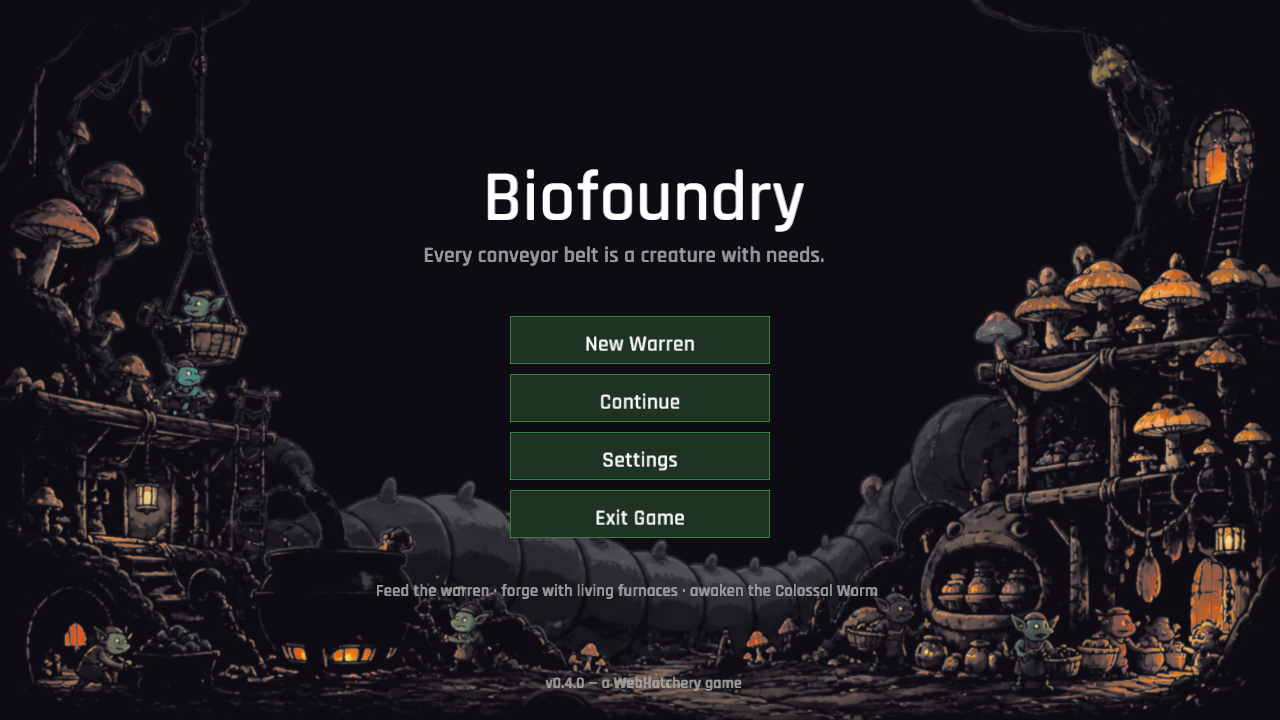
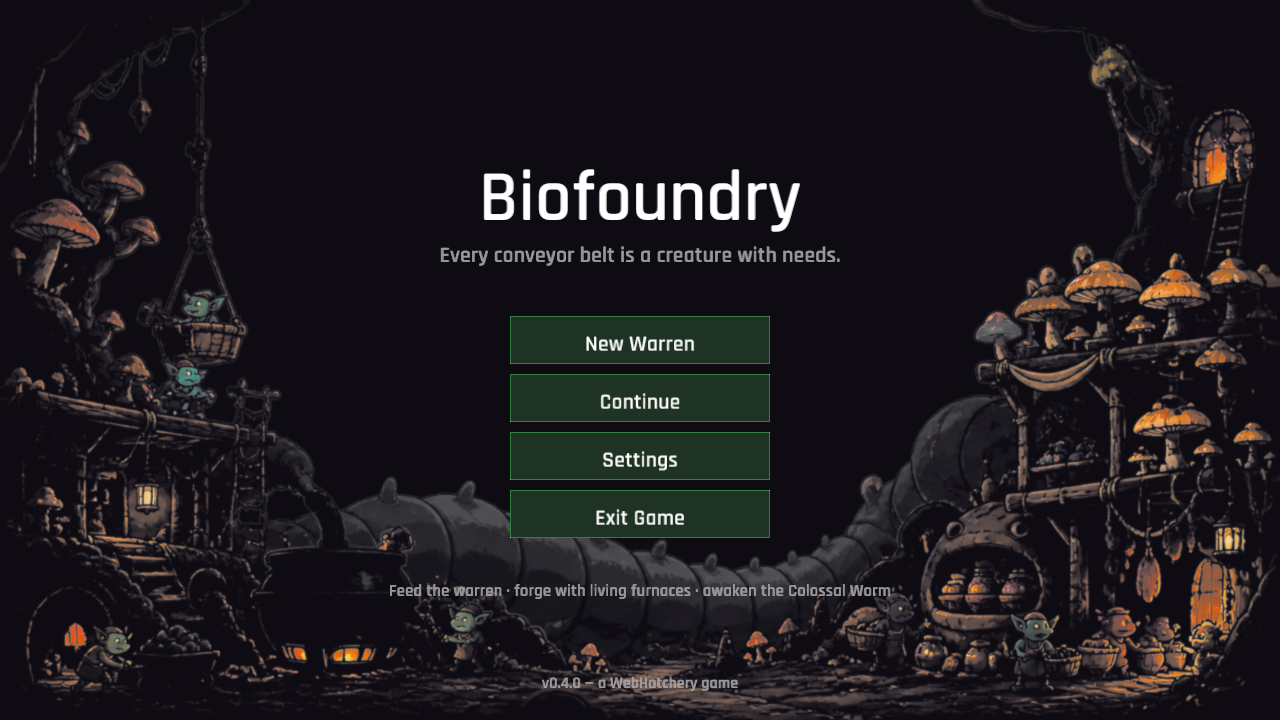
The warren's smaller windows keep their field guide legible (responsive HUD typography)
The fixed 1280x720 interface became too faint when the browser letterboxed it into a compact canvas, while the title screen also centered itself with unscaled font measurements. Apply the shared toolkit's bounded responsive text scale, measure centered menu copy with the same effective font, and shorten the idle top-bar hint so it stays clear of the fixed controls.

The 800x450 hosted Preview was checked after publish: the title and field guide remain readable, the Warren HUD is clearer, and the compact hint fits. The canonical 1280x720 menu capture was refreshed; the existing compact layout remains a follow-up rather than a release-sized layout claim.

Changed region(s): [[0.3125, 0.2444, 0.6562, 0.3667], [0.2812, 0.7944, 0.6875, 0.8556], [0.4375, 0.9167, 0.5625, 0.9778]]

diff --git a/src/ui/menu.rs b/src/ui/menu.rs
@@ -41,7 +41,7 @@ pub fn draw(
 
     let title = &data.config.display_name;
     let title_size = 72.0;
-    let title_w = measure_text(title, None, title_size as u16, 1.0).width;
+    let title_w = measure_text_size(title, TextStyle::new(title_size, dark::TEXT_BRIGHT)).width;
     draw_ui_text_ex(
         title,
         (LOGICAL_WIDTH - title_w) * 0.5,
@@ -50,7 +50,7 @@ pub fn draw(
     );
 
     let tagline = "Every conveyor belt is a creature with needs.";
-    let tagline_w = measure_text(tagline, None, 22, 1.0).width;
+    let tagline_w = measure_text_size(tagline, TextStyle::new(22.0, dark::TEXT_DIM)).width;
     draw_ui_text_ex(
         tagline,
         (LOGICAL_WIDTH - tagline_w) * 0.5,
@@ -88,7 +88,7 @@ pub fn draw(
     }
 
     let hint = "Feed the warren · forge with living furnaces · awaken the Colossal Worm";
-    let hint_w = measure_text(hint, None, 17, 1.0).width;
+    let hint_w = measure_text_size(hint, TextStyle::new(17.0, dark::TEXT_DIM)).width;
     draw_ui_text_ex(
         hint,
         (LOGICAL_WIDTH - hint_w) * 0.5,
@@ -97,7 +97,7 @@ pub fn draw(
     );
 
     let footer = format!("v{} — a WebHatchery game", data.config.version);
-    let footer_w = measure_text(&footer, None, 16, 1.0).width;
+    let footer_w = measure_text_size(&footer, TextStyle::new(16.0, dark::TEXT_DIM)).width;
     draw_ui_text_ex(
         &footer,
         (LOGICAL_WIDTH - footer_w) * 0.5,

diff --git a/src/game.rs b/src/game.rs
@@ -274,6 +274,15 @@ impl Game {
     pub fn draw(&mut self) {
         clear_background(dark::BACKGROUND);
 
+        // Preserve readable text when the fixed 1280x720 layout is letterboxed
+        // into a smaller browser canvas. The toolkit keeps this bounded so the
+        // established candidate scale remains unchanged at the design size.
+        macroquad_toolkit::ui::set_ui_text_scale_for_screen(
+            ui::LOGICAL_WIDTH,
+            ui::LOGICAL_HEIGHT,
+            1.25,
+        );
+
         let actions = match &self.state {
             GameState::Menu => {
                 let virtual_ui = begin_virtual_ui_frame(ui::LOGICAL_WIDTH, ui::LOGICAL_HEIGHT);

diff --git a/src/ui/hud/panels.rs b/src/ui/hud/panels.rs
@@ -141,7 +141,7 @@ pub(super) fn draw_top_bar(
         );
     } else {
         draw_ui_text_ex(
-            "Drag map · tap +/− to zoom · Save / Load / Menu",
+            "Drag map · +/− zoom · tap Help",
             bar.x + 380.0,
             bar.y + 31.0,
             TextStyle::new(15.0, dark::TEXT_DIM).params(),
